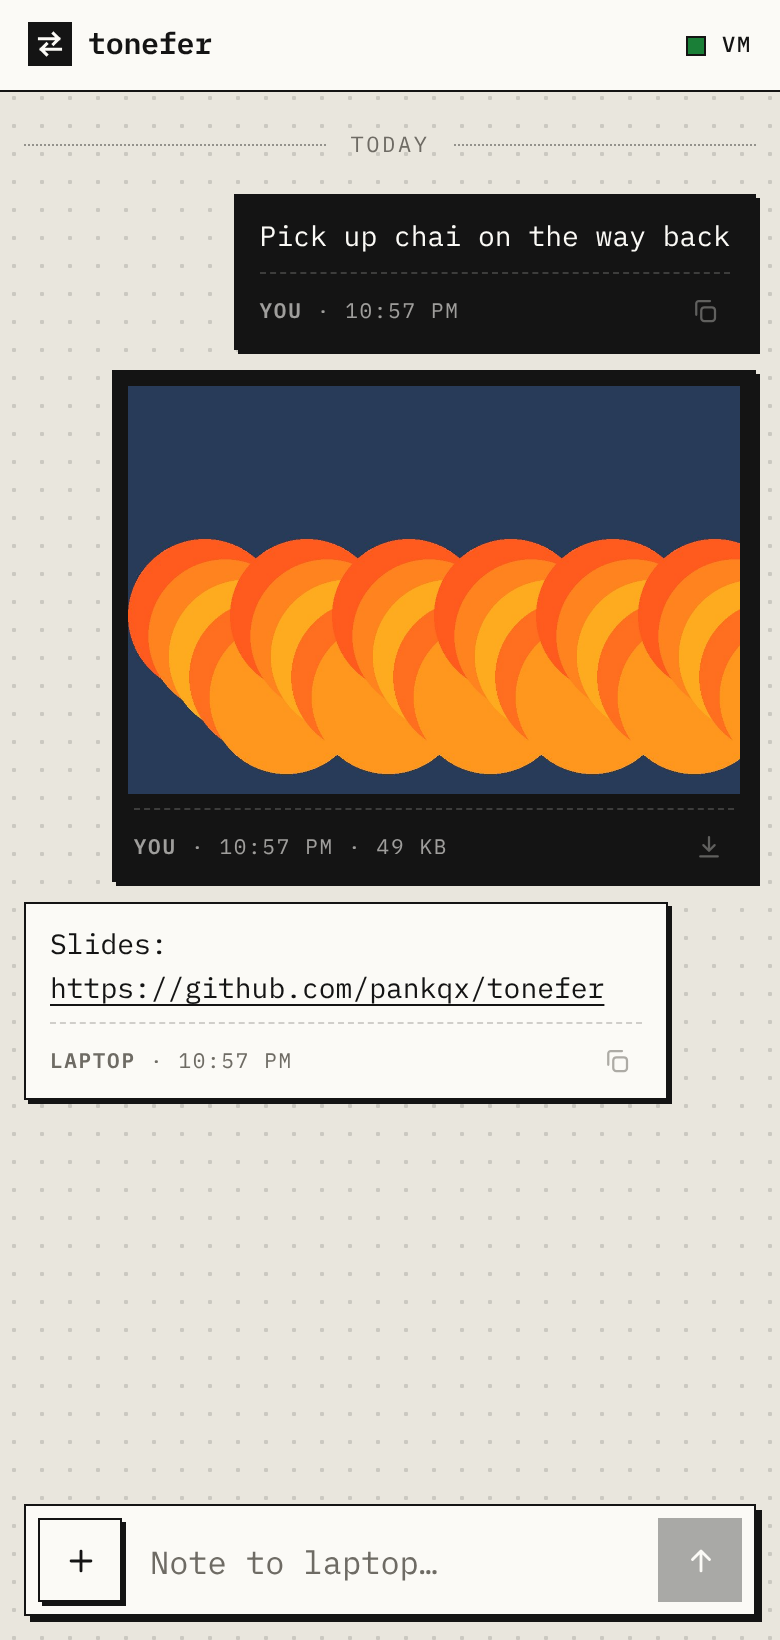
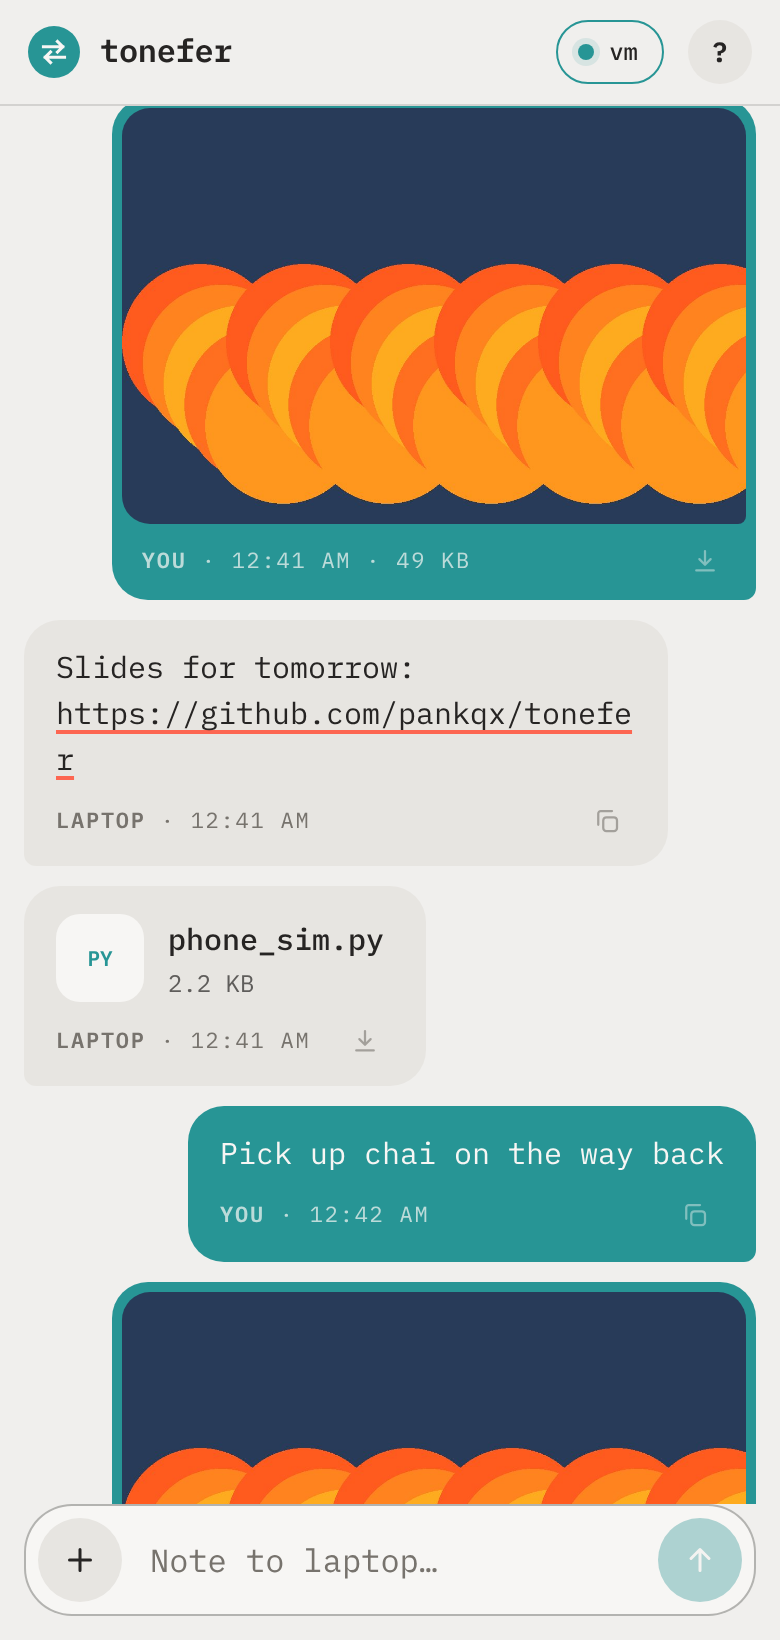
Guide: automatic hotspot setup for Ubuntu and Windows, transfer speed; installer enables auto-join; new screenshots

diff --git a/GUIDE.md b/GUIDE.md
@@ -11,7 +11,7 @@ This guide takes you from download to everyday one-click use. No Git or programm
 3. [One-click setup (recommended)](#3-one-click-setup-recommended)
 4. [Pair your phone](#4-pair-your-phone)
 5. [Everyday use](#5-everyday-use)
-6. [Connection options](#6-connection-options)
+6. [Connection options, auto hotspot & speed](#6-connection-options)
 7. [Android app](#7-android-app)
 8. [Updating](#8-updating)
 9. [Windows](#9-windows)
@@ -133,10 +133,53 @@ Files sent to the laptop are saved in `~/Tonefer/Received`. History is kept on b
 | Option | Speed | How |
 |---|---|---|
 | **USB tethering** | Fastest and most stable | Plug the phone in, then Settings → Hotspot & tethering → **USB tethering** |
-| **Phone hotspot** | Fast; best on 5 GHz | Settings → Hotspot → on, then join it from the laptop |
+| **Phone hotspot** | Fast; best on 5 GHz | Settings → Hotspot → on. The laptop joins by itself (6a). |
 | **Shared Wi‑Fi** | Depends on the network | Both devices on the same network. Some public or college networks block device-to-device traffic. |
 
 **Tip:** in the phone's hotspot settings, choose the **5 GHz** band if it's offered. Photos transfer noticeably faster.
+
+### 6a. Automatic hotspot connection
+
+With this set up, sharing works even when the hotspot is off:
+
+1. **Share → Tonefer** on the phone.
+2. If the laptop can't be reached, Tonefer **keeps the item** and **opens the hotspot switch**. Tap it on.
+3. The laptop sees the hotspot and **joins it by itself** within a few seconds.
+4. Tonefer **delivers the item automatically** and confirms with a notification.
+
+> Android doesn't allow apps to turn the hotspot on by themselves (blocked since Android 8). Tonefer opens the switch for you, so it's one tap. Even quicker: add the **Hotspot** tile to the phone's Quick Settings and swipe down.
+
+**Ubuntu setup (once):**
+
+1. Turn on the phone's hotspot and join it once from the laptop's Wi‑Fi menu, so the laptop knows the password.
+2. Run:
+   ```bash
+   cd ~/tonefer
+   ./scripts/install-ubuntu.sh --hotspot "Your Hotspot Name"
+   ```
+   Or, in Tonefer on the laptop, open the **Auto-join hotspot** window, pick the hotspot and leave the switch on.
+
+From then on, Tonefer checks every few seconds. When the hotspot appears, the laptop joins it, even if it's connected to other Wi‑Fi.
+
+**Windows setup (once):**
+
+1. Turn on the phone's hotspot and join it from the Wi‑Fi menu (taskbar → Wi‑Fi icon).
+2. Open **Settings → Network & internet → Wi‑Fi → Manage known networks → your hotspot**, then:
+   - turn on **Connect automatically when in range**;
+   - set **Network profile type** to **Private**.
+3. In Tonefer on the laptop, open the **Auto-join hotspot** window, pick the hotspot and leave the switch on. Tonefer then switches to it from other Wi‑Fi too.
+4. Make Tonefer start with Windows: press <kbd>Win+R</kbd>, type `shell:startup`, Enter, and put a shortcut to `run.bat` in that folder.
+
+The same thing from the command line (Command Prompt, using your hotspot's name):
+
+```bat
+netsh wlan set profileparameter name="Your Hotspot Name" connectionmode=auto
+netsh wlan connect name="Your Hotspot Name"
+```
+
+### 6b. Transfer speed
+
+The **Transfer speed** window on the laptop shows the real speed of every transfer, measured live while the bytes cross the network. **Run speed test** sends 16 MB each way to the connected phone. Typical results: hotspot 3–20 MB/s, USB tethering 15–40 MB/s.
 
 ---
 
@@ -170,8 +213,7 @@ If you used the ZIP, download it again and replace the folder. History and pairi
 1. Install Python 3 from **python.org**, ticking **Add Python to PATH**.
 2. Download the ZIP (section 2) and extract it.
 3. Double-click **`run.bat`**. When Windows Firewall asks, allow **Private networks**.
-4. Set the hotspot to Private: Settings → Network & internet → Wi‑Fi → *your hotspot* → **Private network**.
-5. To start Tonefer with Windows: press <kbd>Win+R</kbd>, type `shell:startup`, and put a shortcut to `run.bat` in that folder.
+4. Set up automatic hotspot connection and start-up as in **section 6a → Windows setup**.
 
 ---
 

diff --git a/README.md b/README.md
@@ -25,6 +25,8 @@ Most phone-to-laptop tools go through someone else's server, need an account, or
 | **One click** | Runs in the background at login, appears in the app launcher, and auto-joins your hotspot. |
 | **History** | Every transfer stays in a timeline on both devices until you clear it. |
 | **Android app** | *Share → Tonefer* from any app, automatic discovery, background notifications and a full customisation menu. |
+| **Live speedometer** | Measures the real speed of every transfer, plus a one-click speed test. |
+| **Auto hotspot** | The laptop joins your phone's hotspot by itself. Shares made while it's away are queued and delivered automatically. |
 | **Built-in help** | An Instructions tab on the laptop (<kbd>F1</kbd>) and a help sheet on the phone. |
 
 <p align="center">
